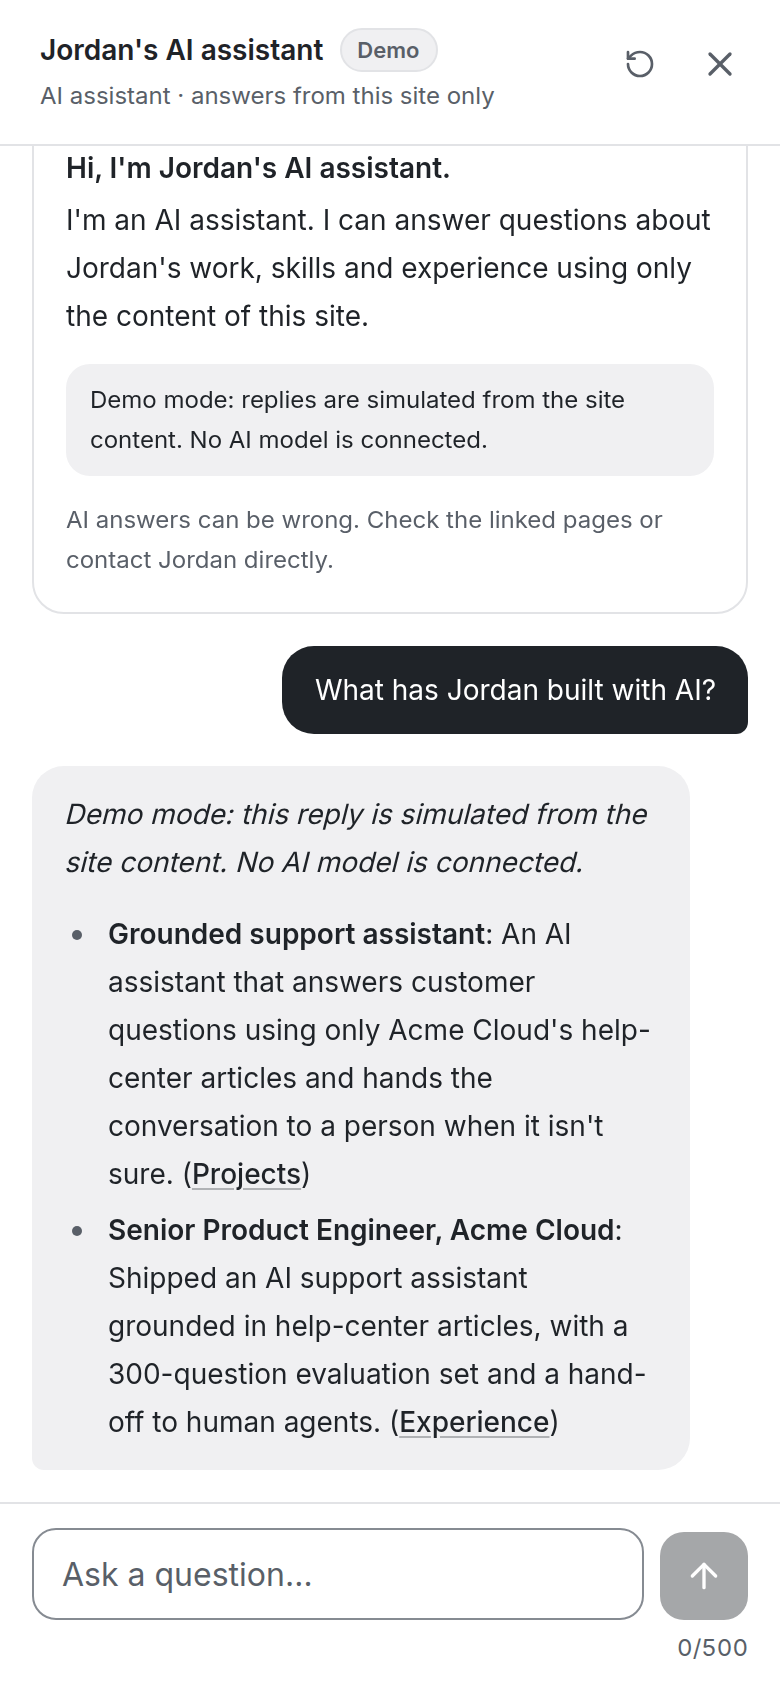
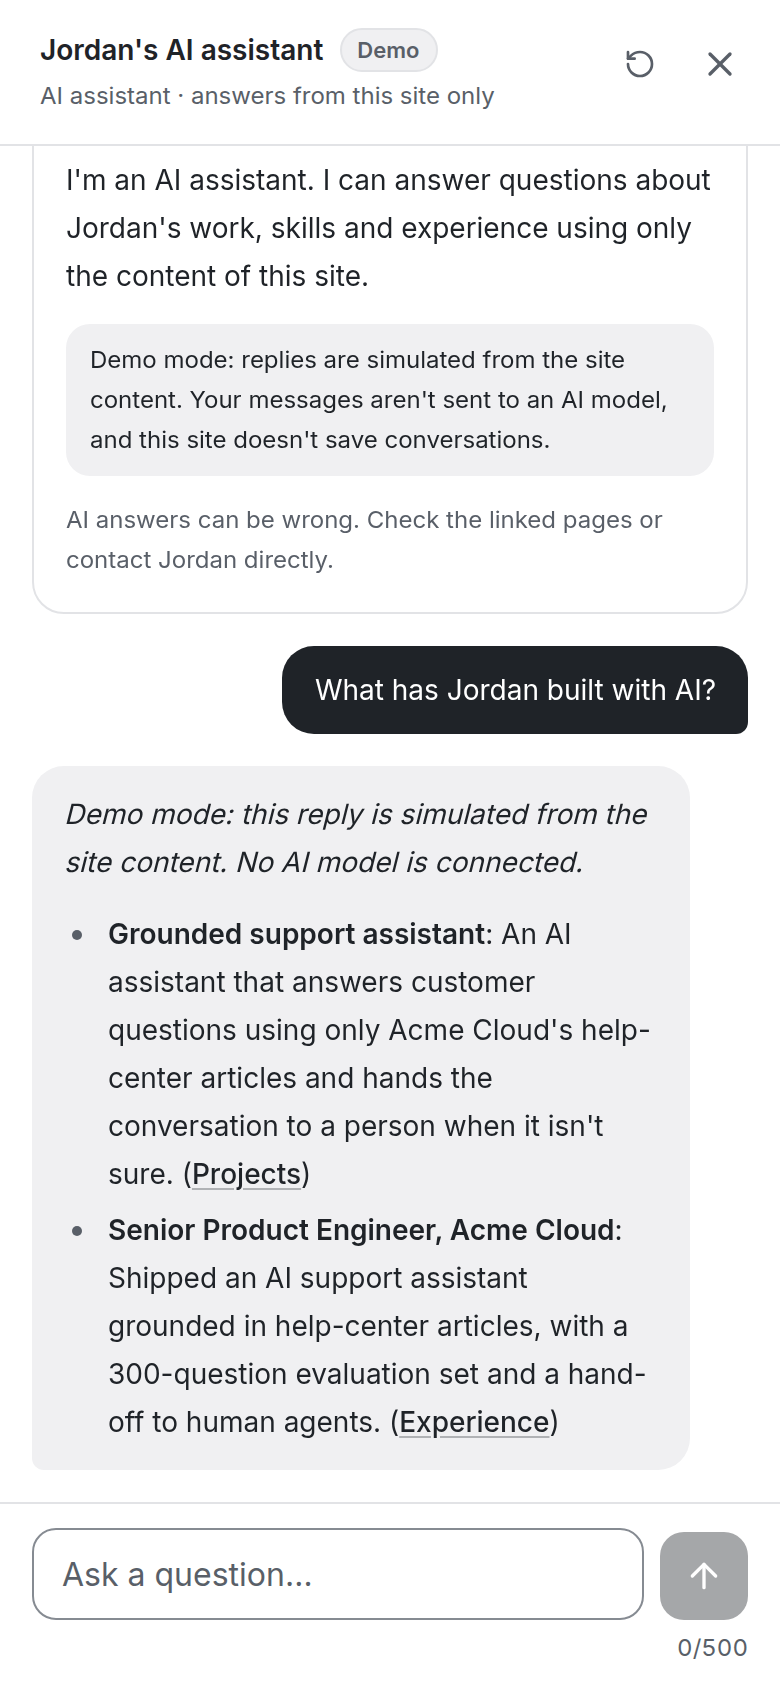
docs: describe assistant behavior, privacy and provider support precisely
- Describe the assistant's rules as intended behavior that a model can miss,
  and keep the verifiable guarantees (no tools, link allow-list).
- One profile file per language; translations are kept in step by hand.
- Name the supported API (streaming OpenAI Chat Completions) instead of
  promising that any OpenAI-compatible endpoint works.
- Explain what the app keeps and what goes to the provider, and add a visitor
  privacy note to the deployment guide.
- Refresh the README screenshots and the changelog.

Changed region(s): [[0.0923, 0.0924, 0.9231, 0.2773]]

diff --git a/src/lib/ai/llm.ts b/src/lib/ai/llm.ts
@@ -1,6 +1,7 @@
 /**
- * Streaming client for any OpenAI-compatible Chat Completions API (OpenAI, OpenRouter,
- * Groq, a local server…), using plain fetch.
+ * Streaming client for the OpenAI Chat Completions API, using plain fetch. Other providers
+ * that implement the same API (OpenRouter, Groq, a local server…) can work, but they differ
+ * in accepted parameters, streaming and usage reporting.
  *
  * Never log or return prompts, message text, the API key or provider response bodies:
  * errors carry only a code, a retry hint and a short classification for the logs.

diff --git a/src/content/index.ts b/src/content/index.ts
@@ -1,6 +1,7 @@
 /**
  * Single entry point for the portfolio content. The pages and the AI assistant both
- * read from here, so what visitors see and what the assistant knows cannot drift.
+ * read from here, so in each language what visitors see and what the assistant knows come
+ * from the same data. Translations are separate files and must be kept in step by hand.
  *
  * Server-side only by convention: pass the pieces a client component needs as props
  * instead of importing this module from a "use client" file.

diff --git a/README.md b/README.md
@@ -3,8 +3,8 @@
 [![CI](https://github.com/GuilhermeMikin/ai-portfolio-template/actions/workflows/ci.yml/badge.svg)](https://github.com/GuilhermeMikin/ai-portfolio-template/actions/workflows/ci.yml)
 [![License: MIT](https://img.shields.io/badge/license-MIT-blue.svg)](LICENSE)
 
-A personal portfolio website with an optional AI assistant that answers visitors' questions using only the
-content of the site. Built with Next.js, it is configured from one typed content file and works with or
+A personal portfolio website with an optional AI assistant that answers visitors' questions from the content
+of the site. Built with Next.js, it is configured from one typed profile file per language and works with or
 without an AI provider.
 
 ![Home page on desktop](docs/screenshots/home-desktop.png)
@@ -18,8 +18,9 @@ without an AI provider.
 </p>
 
 The screenshots show the bundled example profile, **Jordan Rivera, a fictional person**, in the light theme
-and in the dark theme in Portuguese. The chat screenshot was taken in demo mode, where replies are simulated
-from the site content and labeled as such.
+and in the dark theme in Portuguese. While the example is in place, a banner at the top says so and links to
+this repository. The chat screenshot was taken in demo mode, where replies are simulated from the site content
+and labeled as such.
 
 **Live demo:** [ai-portfolio-template.mikin.ai](https://ai-portfolio-template.mikin.ai) runs this repository
 with the example profile, so you can try the assistant before installing anything.
@@ -38,15 +39,17 @@ chat off. Then follow [Make it yours](#make-it-yours) and add the environment va
   are fully usable without the chat.
 - **One content file per language:** your profile lives in `src/content/en/profile.ts` (and its Portuguese
   version in `src/content/pt-br/profile.ts`), a typed object checked by `pnpm content:check` (and before every
-  build). The pages and the assistant read the same data, so they can't drift apart.
+  build). In each language the pages and the assistant read the same data, so what visitors see and what the
+  assistant knows come from one source. Each translation is its own file, so keep their facts in step.
 - **AI assistant (optional):** a featured card on the home page and a floating "Ask AI" button on every
-  page that opens the chat panel. It answers only from your content, says when it doesn't know, never invents
-  experience, clients, certifications or availability, and never acts or commits on your behalf.
+  page that opens the chat panel. It is instructed to answer only from your content and to say when it
+  doesn't know instead of inventing experience, clients, certifications or availability. Like any model, it
+  can still get things wrong. It has no tools, so it cannot act or commit on your behalf.
 - **Floating links:** small buttons on the right edge for your social profiles and email (plus "back to
   top"), taken from the same content as the footer.
-- **Three chat modes:** `live` (a real model through any OpenAI-compatible API), `demo` (simulated replies,
-  clearly labeled, no model and no cost) and `off`. Without an API key the chat is off and the site works
-  normally.
+- **Three chat modes:** `live` (a real model through an OpenAI-style Chat Completions API), `demo`
+  (simulated replies, clearly labeled, no model and no cost) and `off`. Without an API key the chat is off and
+  the site works normally.
 - **Abuse and cost guards:** payload and message limits, per-visitor rate limits, per-conversation quotas, an
   estimated token budget, and daily caps per visitor and for the whole site, backed by Upstash Redis or (for
   development) memory. A request that is turned away uses up no quota.
@@ -71,8 +74,11 @@ It is **not RAG and not an agent**:
 - The "related pages" shown under an answer are keyword matches, not retrieval citations.
 - The assistant has no tools and takes no actions. Requests such as "email Jordan for me" or "book a call"
   get a fixed reply that points to the Contact page, without calling the model.
-- Conversations are not stored on the server. The browser keeps the transcript and sends recent turns
-  with each question; the server validates and trims them.
+- The app saves no transcripts. The browser keeps the conversation in memory while the page is open and
+  sends recent turns with each question; the server validates and trims them. In `live` mode the server
+  passes the question, those turns and the prompt to your LLM provider, whose own data policy applies; in
+  `demo` mode nothing is sent to a model. Server logs hold metadata only (lengths, counts, durations, token
+  usage), never message text.
 
 Security does not rely on the prompt alone: nothing secret is ever in the model's context (your content is
 public by design), the model cannot do anything but write text, its output is rendered without HTML, and
@@ -85,7 +91,7 @@ obvious prompt-injection attempts as a first line, not as the main defense.
 |---|---|
 | Framework | Next.js 16 (App Router, Turbopack), React 19, TypeScript 5 |
 | Styling | Tailwind CSS 3 with CSS-variable color tokens; Inter via `next/font` |
-| AI | Any OpenAI-compatible Chat Completions API, called with `fetch` (no SDK) |
+| AI | OpenAI-style Chat Completions API (streaming), called with `fetch` (no SDK) |
 | Rate limits | Upstash Redis (`@upstash/ratelimit`), or in-memory for development |
 | Email | Resend REST API (optional) |
 | Analytics | Vercel Web Analytics (optional, off by default) |
@@ -122,8 +128,8 @@ rate limits and quotas → a streamed answer from the model, built from the syst
 
 - Node.js 22 or newer (an LTS release: 22 or 24)
 - pnpm 10 (`corepack enable` installs the version pinned in `package.json`)
-- Optional: an API key for an OpenAI-compatible provider, an [Upstash](https://upstash.com) Redis database
-  and a [Resend](https://resend.com) account
+- Optional: an API key for a provider with an OpenAI-style Chat Completions API, an
+  [Upstash](https://upstash.com) Redis database and a [Resend](https://resend.com) account
 
 ## Quick start
 
@@ -155,16 +161,20 @@ LLM_BASE_URL=https://api.openai.com/v1
 CHAT_MODEL=gpt-4o-mini          # any chat model your provider offers
 ```
 
-Any OpenAI-compatible endpoint works (OpenAI, OpenRouter, a local server, …). Model names and prices change;
-check your provider's current list. Newer OpenAI reasoning models need `CHAT_MAX_TOKENS_PARAM=max_completion_tokens`
-and `CHAT_TEMPERATURE=default`, and a larger `CHAT_MAX_TOKENS`, because their hidden reasoning counts toward it.
+The server sends streaming requests to `{LLM_BASE_URL}/chat/completions` in the OpenAI format, with a bearer
+key. It was developed against OpenAI; other providers and local servers that implement this API (OpenRouter,
+for example) can work, but they differ in models, supported parameters, streaming and usage reporting, so try
+yours before launch. Model names and prices change; check your provider's current list. Newer OpenAI reasoning
+models need `CHAT_MAX_TOKENS_PARAM=max_completion_tokens` and `CHAT_TEMPERATURE=default`, and a larger
+`CHAT_MAX_TOKENS`, because their hidden reasoning counts toward it.
 In development, rate limits use memory; for a public deployment see [Deployment](#deployment).
 
 ## Make it yours
 
-1. Replace the example in `src/content/en/profile.ts` with your own data and set `isExample: false`. Do the
-   same in `src/content/pt-br/profile.ts`, or remove Portuguese if you don't need it. Every field is documented
-   in [docs/customization.md](docs/customization.md).
+1. Replace the example in `src/content/en/profile.ts` with your own data and set `isExample: false` (this
+   removes the demo banner, the footer notice and the `noindex` tag). Do the same in
+   `src/content/pt-br/profile.ts`, or remove Portuguese if you don't need it. Every field is documented in
+   [docs/customization.md](docs/customization.md).
 2. Run `pnpm content:check`. It explains any problem (bad URL, invalid date, missing contact method,
    too many suggested questions, …) and shows how much of the assistant's context budget you use.
 3. Optional: add a logo or photo under `public/`, tweak the light and dark colors in `src/app/globals.css`,
@@ -260,12 +270,13 @@ site with the live chat**:
 - **Whole profile in the prompt instead of RAG.** A portfolio fits easily in the context window. Retrieval
   would add infrastructure and failure modes without improving answers. `pnpm content:check` fails if the
   content outgrows the budget instead of silently truncating it.
-- **Client-managed history.** No conversation is stored on the server, which keeps the backend simple and
-  respects visitors' privacy. The server re-validates and trims every transcript.
+- **Client-managed history.** The server keeps no transcripts, which keeps the backend simple and limits what
+  the site holds about visitors. It re-validates and trims the history it receives. In `live` mode the
+  messages still reach your LLM provider.
 - **Safe by default.** The chat is off without a key, production refuses the live chat without a shared rate
   limit store, the model has no tools, and its Markdown is rendered without HTML.
-- **No SDKs.** The provider and Resend are called with `fetch`, so any OpenAI-compatible endpoint works and
-  the dependency list stays small.
+- **No SDKs.** The provider and Resend are called with `fetch`, so switching to another endpoint with the
+  same API is a configuration change and the dependency list stays small.
 - **Static pages.** Every locale's pages are prerendered, which keeps hosting cheap and fast; only the two API
   routes run on the server.
 

diff --git a/docs/customization.md b/docs/customization.md
@@ -18,8 +18,9 @@ budget your content uses.
 
 ### `isExample`
 
-`true` while the bundled example is in place: the footer shows an "example profile" notice and pages are
-marked `noindex`. Set it to `false` (or delete it) when the content is yours.
+`true` while the bundled example is in place: a banner at the top says the site is an open-source demo with a
+fictional profile and links to the template's repository, the footer shows an "example profile" notice and
+pages are marked `noindex`. Set it to `false` (or delete it) when the content is yours; all three go away.
 
 ### `person`
 
@@ -85,8 +86,8 @@ Empty or missing sections are not rendered.
 ### `contact`
 
 - `email` (optional): the bare address (`you@example.com`); the site adds `mailto:` itself.
-- `availability`, `responseTime` (optional): shown on the Contact page. The assistant repeats your
-  availability as written and never goes beyond it.
+- `availability`, `responseTime` (optional): shown on the Contact page. The assistant is instructed to
+  repeat your availability as written and not to go beyond it.
 - `social`: a list of `{ platform, label, href }`. `platform` picks the icon: `github`, `gitlab`, `linkedin`,
   `x`, `bluesky`, `mastodon`, `youtube`, `dribbble`, `behance`, `medium`, `whatsapp` (e.g.
   `https://wa.me/<number>`), `website` or `other`.
@@ -114,11 +115,13 @@ their own descriptions from `meta.descriptions` in `messages.json`.
 | `name` | How the assistant introduces itself, e.g. "Jordan's AI assistant" |
 | `suggestedQuestions` | Up to three questions on the home page. Each must be answerable from your content |
 | `faq` | Extra `{ question, answer }` pairs: rates policy, relocation, notice period, … Public, like everything else |
-| `instructions` | Optional preferences on tone, length or what to bring up ("Keep answers under 120 words"). Facts still come only from your content, and they cannot override the built-in rules |
+| `instructions` | Optional preferences on tone, length or what to bring up ("Keep answers under 120 words"). They don't add facts and cannot override the built-in rules |
 
 The built-in rules live in `src/lib/ai/prompts.ts`: answer only from your content, say when the information
-isn't there, never invent facts, never commit or act on your behalf, treat visitor text as data, answer in the
-visitor's language and link only to your own pages or URLs from your content.
+isn't there, never invent facts, never commit or act on your behalf, treat visitor text as data and answer in
+the visitor's language. A model follows such rules most of the time, not always, so try your assistant before
+launch (`pnpm eval`). What the code enforces regardless of the model: the assistant has no tools, and the chat
+renders only links to your own pages or URLs from your content.
 
 ## Text, colors and fonts
 

diff --git a/docs/deployment.md b/docs/deployment.md
@@ -104,9 +104,12 @@ of requests, not their price.
 
 ### LLM provider
 
-Any OpenAI-compatible Chat Completions endpoint: set `LLM_BASE_URL`, `LLM_API_KEY` and `CHAT_MODEL`. For
-OpenRouter, `OPENROUTER_HTTP_REFERER` and `OPENROUTER_X_TITLE` are optional attribution headers. Model
-availability and prices change; pick a model from your provider's current list.
+An endpoint that implements the OpenAI Chat Completions API with streaming (`{LLM_BASE_URL}/chat/completions`,
+bearer key): set `LLM_BASE_URL`, `LLM_API_KEY` and `CHAT_MODEL`. The template was developed against OpenAI.
+Other providers and local servers can work but differ in models, accepted parameters, streaming and usage
+reporting, so try yours before launch. For OpenRouter, `OPENROUTER_HTTP_REFERER` and `OPENROUTER_X_TITLE` are
+optional attribution headers. Model availability and prices change; pick a model from your provider's current
+list.
 
 Newer OpenAI reasoning models reject `max_tokens` and custom temperatures: set
 `CHAT_MAX_TOKENS_PARAM=max_completion_tokens`, `CHAT_TEMPERATURE=default` and a larger `CHAT_MAX_TOKENS` (their
@@ -139,5 +142,9 @@ report a vulnerability.
   dynamic (see the Next.js CSP guide). If you add a third-party script, font, image host or API, add its
   origin to the matching directive.
 - Logs are structured JSON without message text, prompts, provider bodies, raw IPs or keys.
+- **Visitor privacy:** the app keeps no chat transcripts; rate-limit counters use hashed IPs. In `live` mode each
+  question, the recent turns and your content go to your LLM provider, whose data-retention terms apply; in
+  `demo` mode nothing is sent to a model. Your host may keep its own request logs. Mention the provider in your
+  privacy notice if you publish one.
 - The assistant has no tools, its output is rendered without HTML, and its links are limited to your pages and
   the URLs in your content.

diff --git a/docs/architecture.md b/docs/architecture.md
@@ -88,7 +88,7 @@ Messages are localized and never contain stack traces, prompts, provider respons
 | Prompt injection by visitors | Nothing secret is in the context; no tools or actions; rules mark content and history as data; a heuristic rejects obvious attempts; history turns that look like injections are dropped |
 | Malicious content in answers | Markdown is parsed into React elements without HTML; on-site links must be real pages or files; external links must appear in the content and open in a new tab |
 | Abuse and cost | Size limits, rate limits, quotas, a token estimate, a daily cap, bounded answers, a provider timeout and abort on disconnect; a provider-side budget is still required |
-| Data exposure | No conversation storage; logs contain lengths, counts, codes, durations and token usage, never text, raw IPs or keys |
+| Data exposure | No transcripts stored by the app (in `live` mode the question and recent turns go to the LLM provider); rate-limit keys use hashed IPs; logs contain lengths, counts, codes, durations and token usage, never text, raw IPs or keys |
 | Contact-form abuse | Size and field limits, email validation, CR/LF removed from the subject, honeypot, per-IP rate limit |
 
 Per-visitor limits identify visitors by IP: the header named in `RATE_LIMIT_IP_HEADER`, otherwise the first

diff --git a/CHANGELOG.md b/CHANGELOG.md
@@ -27,5 +27,10 @@ First public version, extracted from the author's personal portfolio and turned 
 - GitHub Actions CI running every check on Node 22 and 24, on pushes to `main` and on pull requests, with
   Dependabot keeping the actions current; a "Deploy with Vercel" button; CONTRIBUTING.md and SECURITY.md, with a
   checklist for running the public chat endpoint safely. Node.js 22 or newer is required (Node 20 is end-of-life).
-- `pnpm content:check` warns when a real profile still contains the demo's FAQ or instructions about the
-  template author (mikin.ai, "Guilherme (Mikin)", the template repository).
+- `pnpm content:check` warns when a real profile still contains the demo's links, FAQ or instructions about
+  the template author (mikin.ai, the author's LinkedIn, "Guilherme (Mikin)", the template repository).
+- While the example profile is active, a slim banner above the header says the site is an open-source demo
+  with a fictional profile and links to the source code. The example's GitHub, LinkedIn and website links lead
+  to the template and its author, are labelled as such and are left out of the JSON-LD.
+- The chat says what happens to messages in each mode: in `live` mode they go to the configured AI provider,
+  in `demo` mode to no model, and the app saves no transcripts in either.
